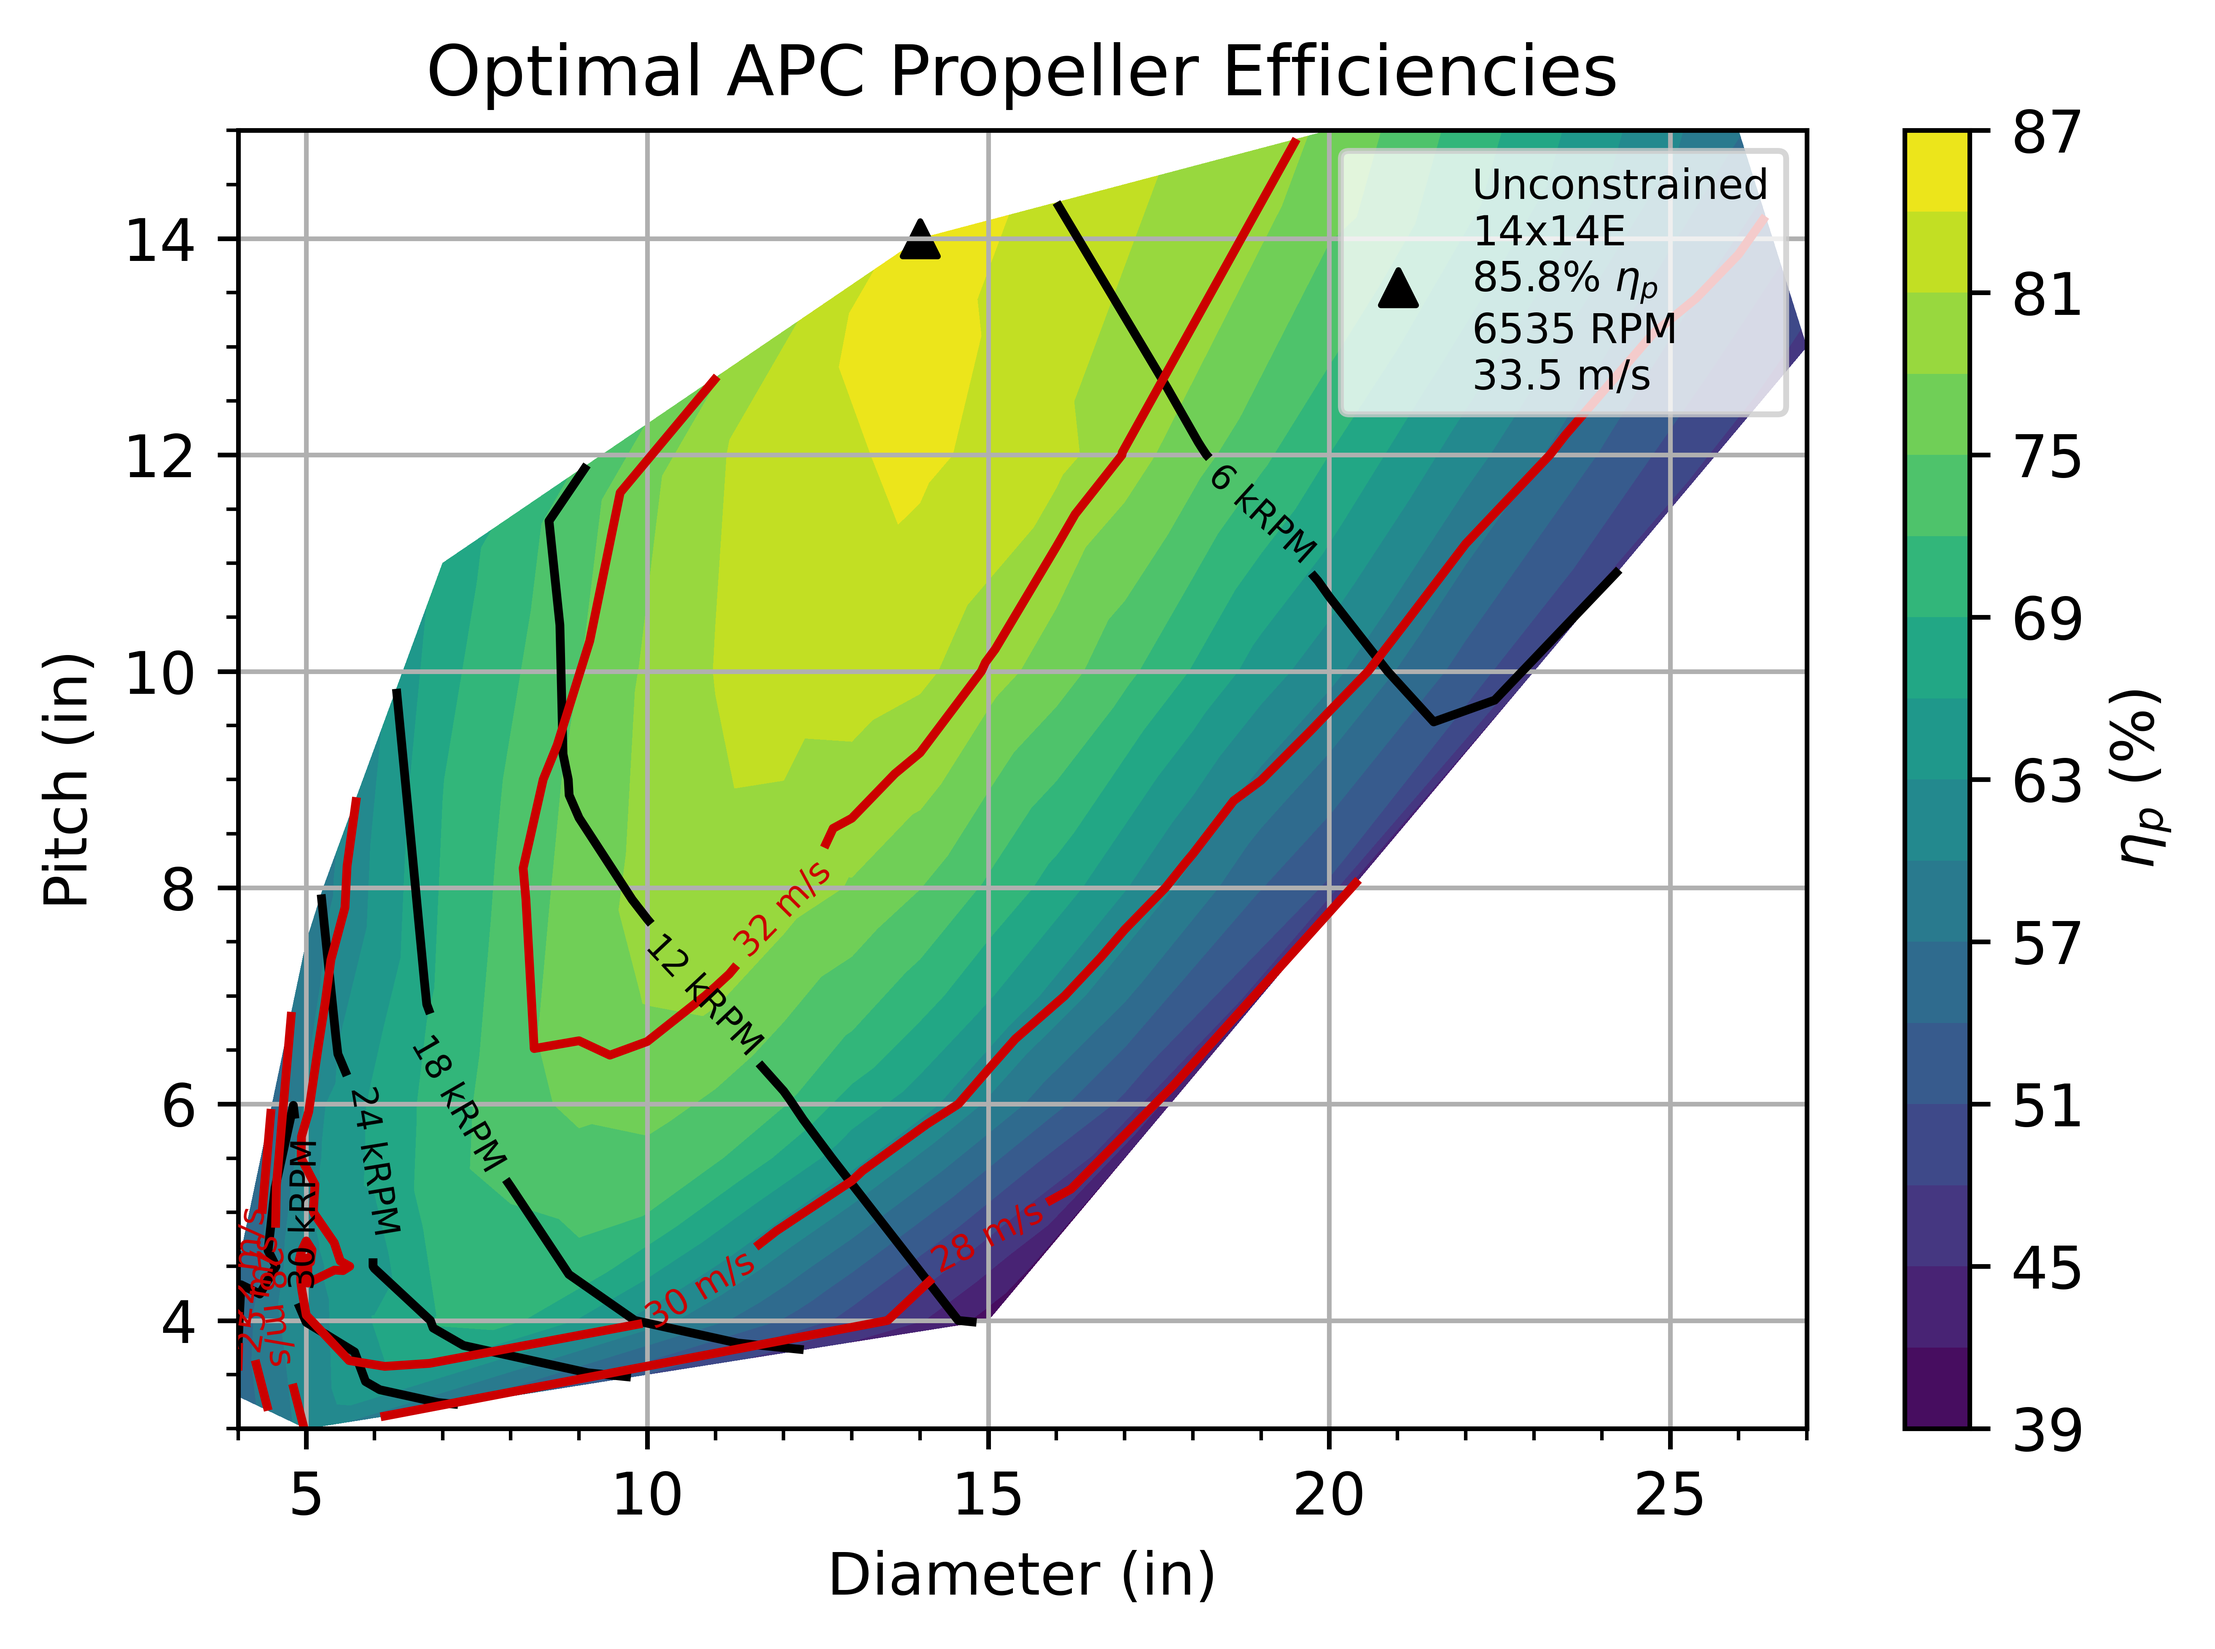
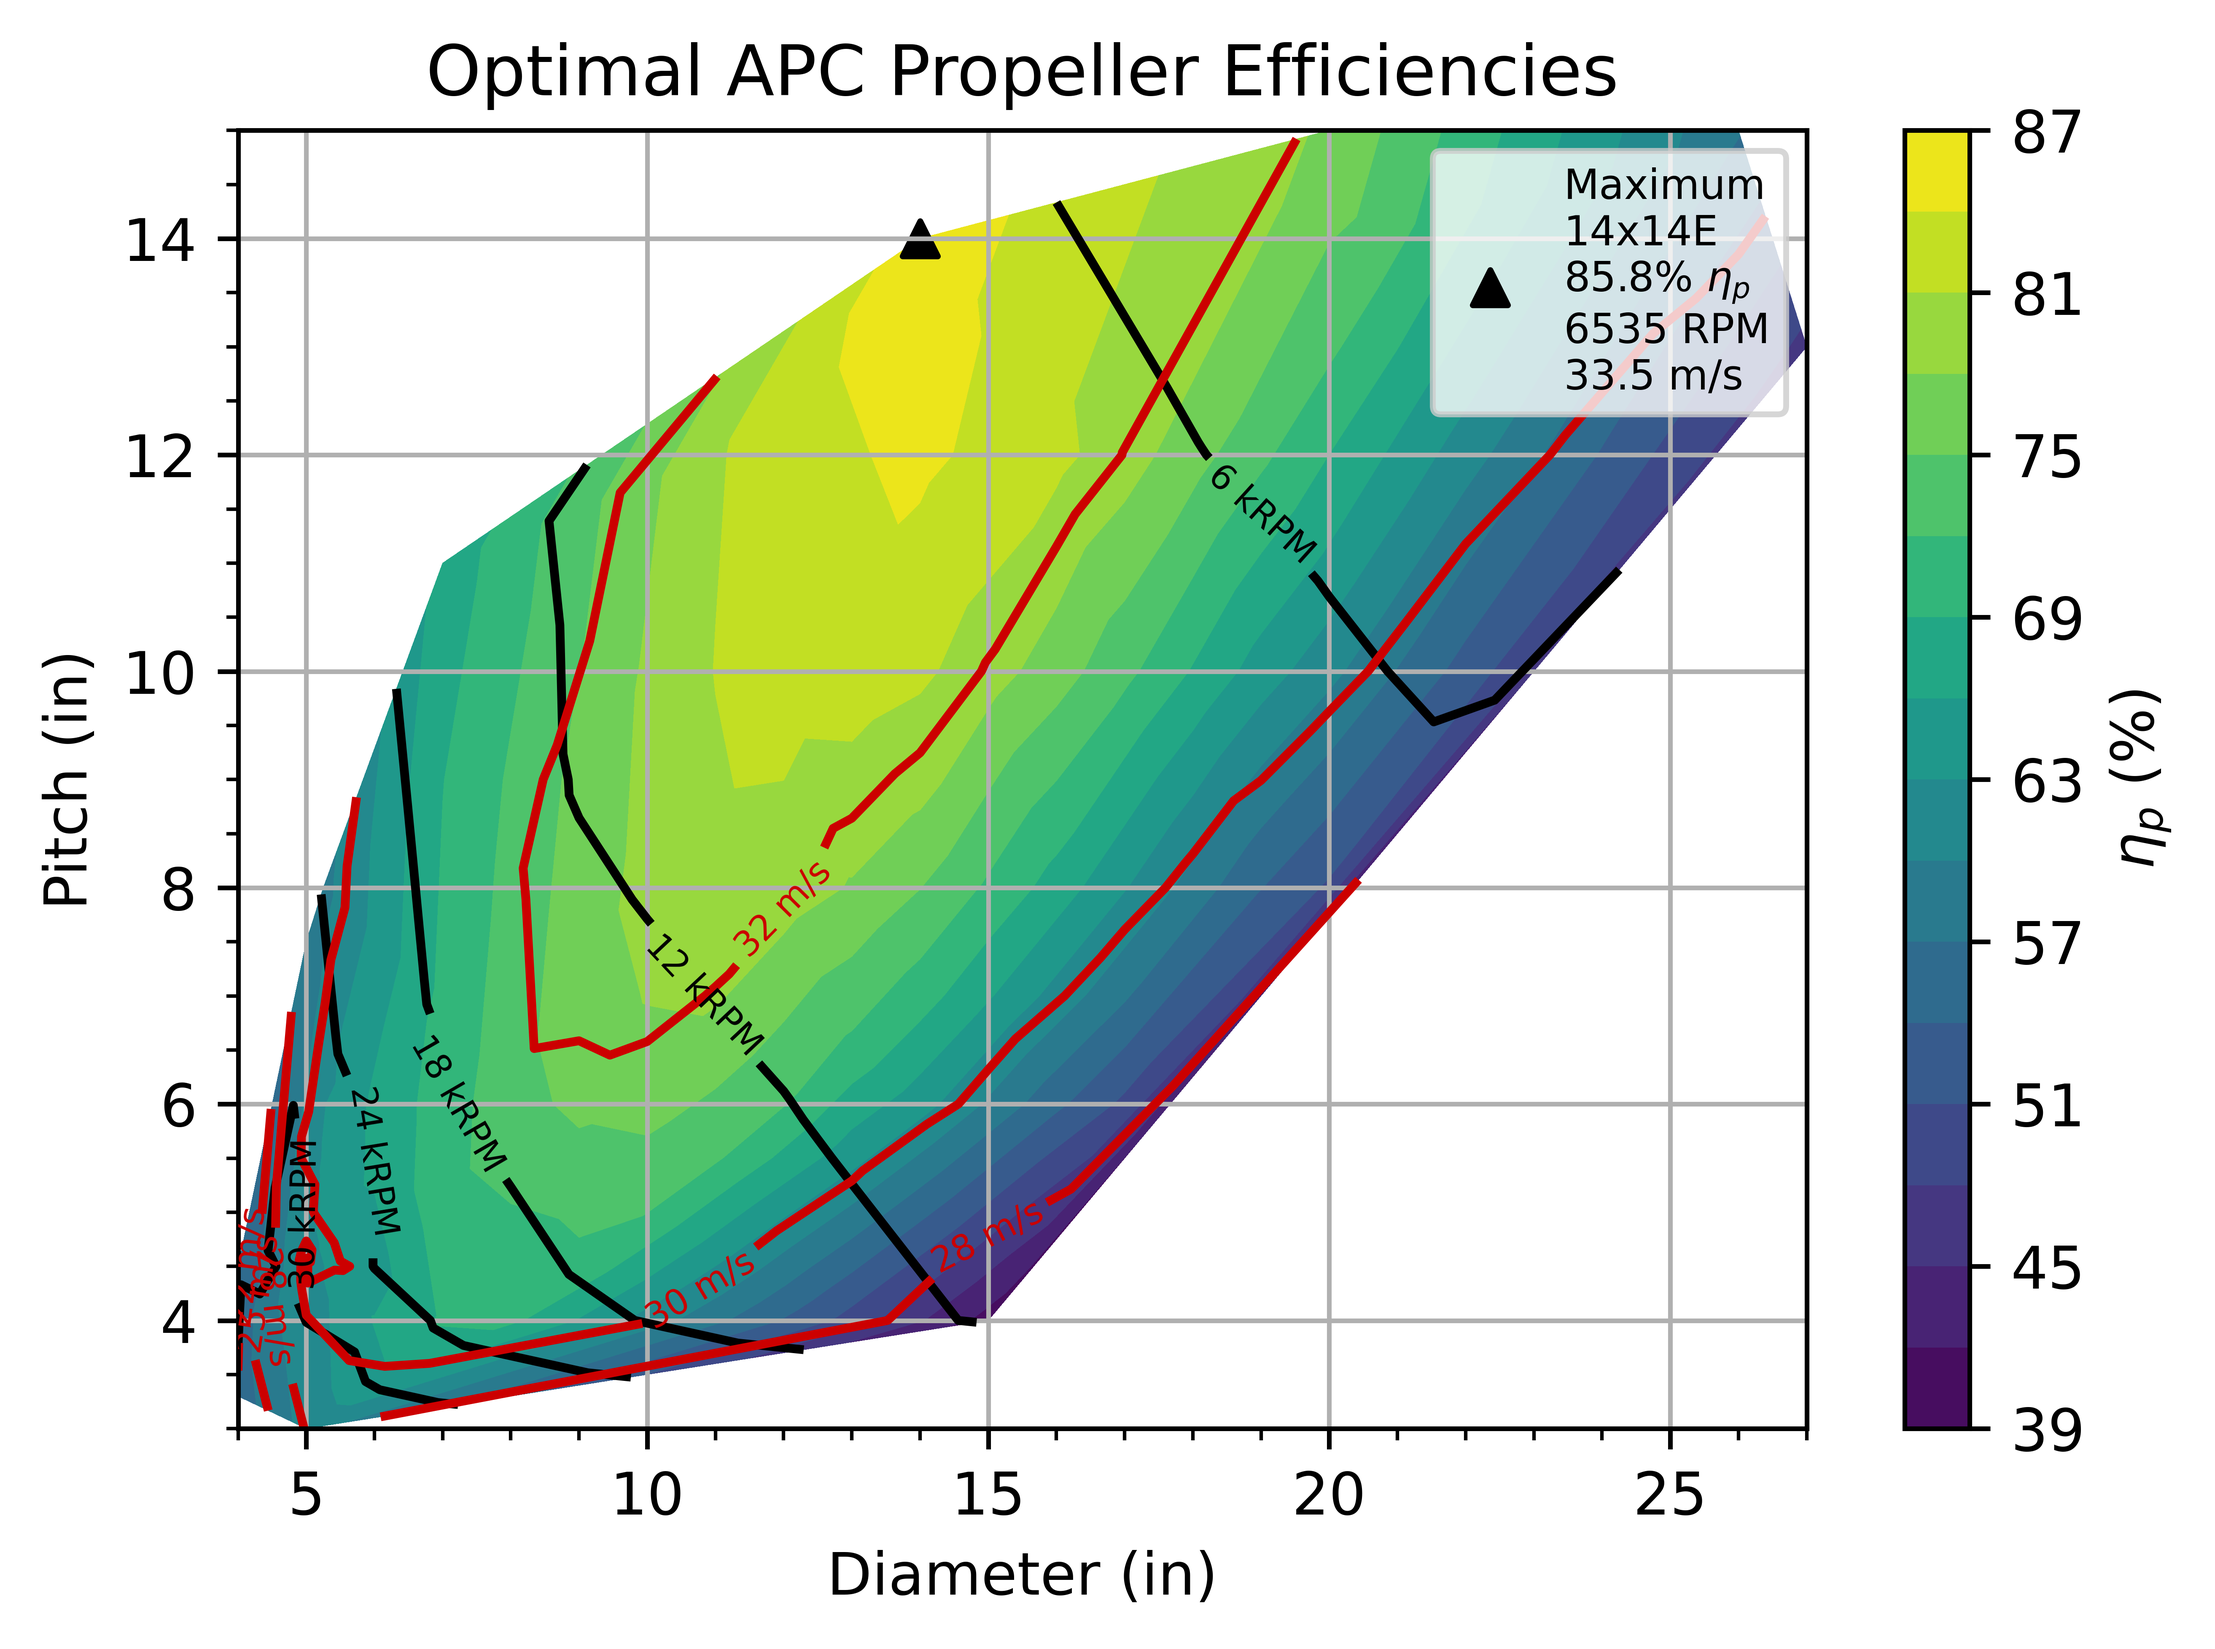
.

Changed region(s): [[0.5932, 0.0936, 0.8117, 0.2495]]

diff --git a/APCPropellerTool.py b/APCPropellerTool.py
@@ -944,7 +944,7 @@ def OptimalEfficiencyMap(Sw, CD, rho = 1.225, Plimit = 1e6,
     #     print(f'Maximum Propeller Efficiency (constrained) is {eta_adjust.max()*100:.1f}% with the {con_diammax}x{con_pitchmax}{useE} at {RPMs[con_maxidx]:.0f} RPM and {Vinfs[con_maxidx]:.1f} m/s')
     #     plt.scatter(con_diammax, con_pitchmax, marker = 'x', color = 'blue', label = f'Constrained\n{con_diammax}x{con_pitchmax}{useE}\n{eta_adjust.max()*100:.1f}% $\\eta_p$\n{RPMs[con_maxidx]:.0f} RPM\n{Vinfs[con_maxidx]:.1f} m/s')
 
-    plt.scatter(diammax, pitchmax, marker = '^', color = 'black', label = f'Unconstrained\n{diammax}x{pitchmax}{useE}\n{etas.max()*100:.1f}% $\\eta_p$\n{RPMs[maxidx]:.0f} RPM\n{Vinfs[maxidx]:.1f} m/s')
+    plt.scatter(diammax, pitchmax, marker = '^', color = 'black', label = f'Maximum\n{diammax}x{pitchmax}{useE}\n{etas.max()*100:.1f}% $\\eta_p$\n{RPMs[maxidx]:.0f} RPM\n{Vinfs[maxidx]:.1f} m/s')
 
     plt.legend(fontsize = 7)
     plt.colorbar(img, label = r'$\eta_p$ (%)')

diff --git a/USEME.py b/USEME.py
@@ -14,6 +14,9 @@ How this works:
     
 Then you will get an efficiency map with limits! 
 
+Alternatively:
+    Input aircraft Sw, CD, Plimit and let the optimization go!
+
 @author: NASSAS
 """
 from APCPropellerTool import EfficiencyMap, OptimalRPMEfficiencyMap, OptimalEfficiencyMap, ThrustRPMEfficiencyMap, UnconstrainedOptimalEfficiencyMap
@@ -21,9 +24,9 @@ from APCPropellerTool import EfficiencyMap, OptimalRPMEfficiencyMap, OptimalEffi
 #%% Basic Efficiency map
 Vinf = 30 #m/s
 RPM = 6300 
-Sw = 0.6
+Sw = 0.6 # m^2
 CD = 0.03
-Plimit = 500
+Plimit = 500 # W
 
 EfficiencyMap(Vinf, RPM, Sw = Sw, CD = CD, Plimit = Plimit)
 
